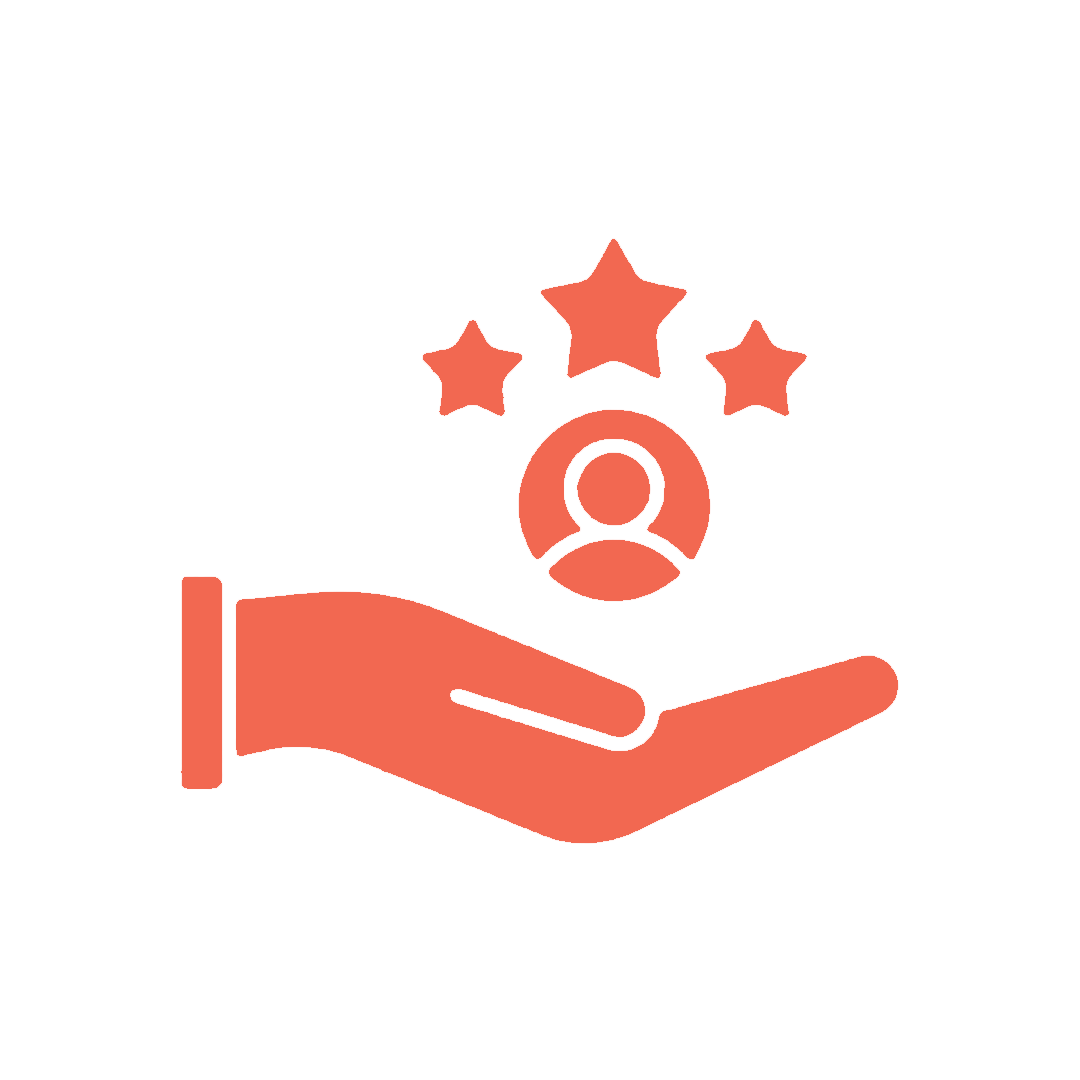
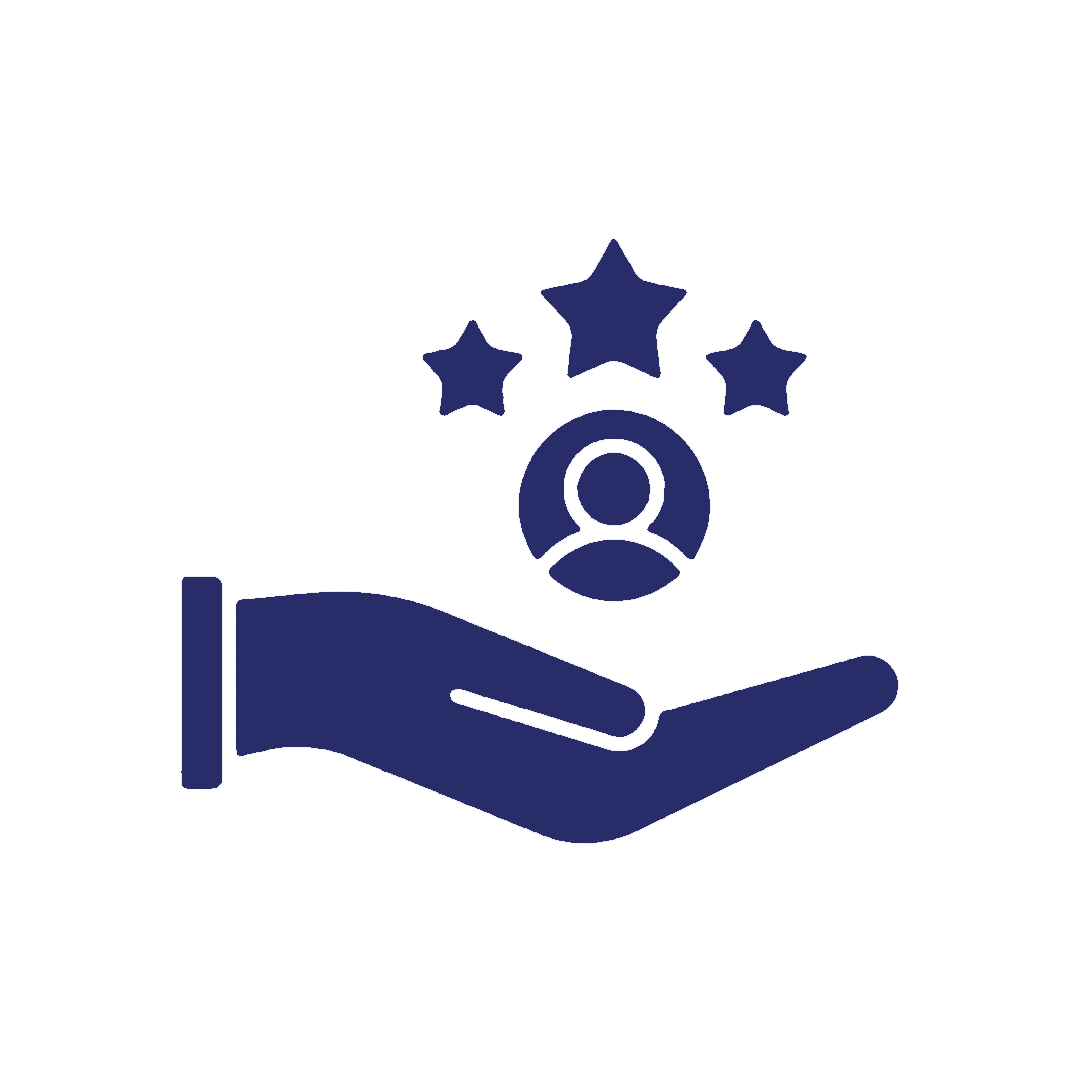
add new animations

diff --git a/index.html b/index.html
@@ -5,7 +5,7 @@
     <meta name="viewport" content="width=device-width, initial-scale=1.0">
     <title>Access-Floor</title>
     <style>
-     *{
+        *{
     margin: 0;
     padding: 0;
     box-sizing: border-box;
@@ -29,13 +29,12 @@
     width: 100%;
     height: 100vh;
     background-color: rgb(64, 67, 66);
-    background-image:linear-gradient(rgba(0, 0, 0, 0.8), rgba(0, 0, 0, 0.6)), url(Access-images/banner\ bg_11zon.jpg);
+    background-image:linear-gradient(rgba(0, 0, 0, 0.8), rgba(0, 0, 0, 0.6)), url(Access-images/1091027319-preview.gif);
     background-repeat: no-repeat;
     background-size: 100vw 100vh;
 }
 
 /* ..............navbar.................. */
-
 
 .navbar-container{
     width: 100%;
@@ -75,7 +74,7 @@
     color: whitesmoke;
 }
 .nav-menu P:hover{
-    color:#f26851;
+    color:rgb(45,42,99);
 }
 
 /* .................banner............... */
@@ -113,8 +112,8 @@
     margin-top: 2%;
     border-radius: 5px;
     color: white;
-    border: 2px solid whitesmoke ;
-    background-color:#f26851;
+    border: none;
+    background-color:rgb(45,42,99);
     font-family:Arial, Helvetica, sans-serif;
 }
 
@@ -159,7 +158,7 @@
      color: white;
      font-family: sans-serif;
      font-size: 16px;
-     background-color:#f26851;
+     background-color:rgb(45,42,99);
  }
 
  .about-imagesection{
@@ -192,6 +191,11 @@
     gap: 3%;
     cursor: pointer;
     transition: transform 0.2s;
+    background-image: linear-gradient(rgba(0, 0, 0, 0.8), rgba(0, 0, 0, 0.6)), url(Access-images/facts.jpg);
+    background-repeat: no-repeat;
+    background-size: 100vw 100vh;
+    background-attachment: fixed;
+
 }
 .detail-title{
     width: 90%;
@@ -200,7 +204,7 @@
     align-items: center;
     font-size: 28px;
     font-weight: 500;
-    color: #f26851;
+    color: rgb(45,42,99);
     font-family: 'Segoe UI', Tahoma, Geneva, Verdana, sans-serif;
     /* background-color: aqua; */
     animation: appear  linear;
@@ -223,9 +227,15 @@
     align-items: center;
     justify-content: center;
     gap: 2%;
-    background-color: rgb(45,42,99);
+    /* background-color: rgb(45,42,99); */
     color: whitesmoke;
     /* border-radius: 50%; */
+    animation: appear  linear;
+    animation-timeline: view();
+    animation-range: entry 5%;
+}
+.detail-card img{
+    width: 80px;
 }
 .detail-card h2{
     font-size: 82px;
@@ -240,6 +250,7 @@
     animation: appear  linear;
     animation-timeline: view();
     animation-range: entry 20%;
+    color: rgb(45,42,99);
 }
 
 /* ....................product................................. */
@@ -273,6 +284,7 @@
     grid-template-columns: repeat(3, 1fr);
     /* background-color: #fff; */
     gap: 2%;
+    align-items: center;
 }
 
 .product-card {
@@ -330,7 +342,7 @@
     flex-direction: column;
     align-items: center;
     /* justify-content: center; */
-    background-color:whitesmoke;
+    background-color:white;
 }
 .why-title{
     width: 100%;
@@ -361,7 +373,7 @@
     justify-content: center;
     flex-direction: column;
     gap: 5%;
-    border: 2px solid #f26851;
+    border: 2px solid rgb(45,42,99);
     background-color: white;
     border-radius: 5px;
 }
@@ -372,6 +384,7 @@
 .whycard h3{
     font-size:24px;
     font-family: 'Segoe UI', Tahoma, Geneva, Verdana, sans-serif;
+    color: rgb(45,42,99);
 }
 /* ................projects............ */
 
@@ -501,9 +514,9 @@
     height: 15%;
     font-size: 18px;
     font-weight: bold;
-    background-color: #f26851;
+    background-color: white;
     border: 2px solid white;
-    color: whitesmoke;
+    color: rgb(45,42,99);
 }
 
 /* .................footer........................... */
@@ -588,10 +601,11 @@
      font-family: sans-serif;
      font-size: 1rem;
  }
-    
+  
 
- /* ...............responsive................... */
-    
+ /* ..........................responsive................................ */
+
+ 
 
 @media (max-width:1025px){
 
@@ -794,7 +808,7 @@
 /* details */
 .detail-container{
     gap: 8%;
-    height: 50vh;
+    height: 100vh;
 }
 .detailcard-container{
     gap:5%;
@@ -955,7 +969,7 @@
     /* details */
 .detail-container{
     gap: 8%;
-    height: 50vh;
+    height: 100vh;
 }
 .detailcard-container{
     gap:5%;
@@ -1018,7 +1032,7 @@
 }
 .banner-container button{
     width: 100px;
-    border: 1px solid whitesmoke;
+    font-size: 13px;
 }
 
 /* about */
@@ -1030,7 +1044,11 @@
     font-size: 30px;
 }
 .about-content p{
-    font-size: ;
+    font-size:10px ;
+}
+.about-content button{
+    width: 100px;
+    height: 30px;
 }
 
 /* product */
@@ -1044,15 +1062,21 @@
 .product-info span{
     font-size: 12px;
 }
+       /* why */
 
-/* form */
+    .why-title{
+        height: 10%;
+        font-size: 22px;
+    }
+    .whycard{
+        width: 280px;
+        height: 300px;
+        gap: 3%;
+    }
+    .whycard h3{
+       font-size: 18px;
+    }
 
-.form-container form h2{
-    font-size: 18px;
-}
-.message button{
-   font-size: 12px;
-}
 
 .estimate-container h2{
     font-size: 16px;
@@ -1066,9 +1090,7 @@
 }
 
 }
-
     </style>
- 
 </head>
 <body>
 <div class="web-container">
@@ -1126,14 +1148,17 @@
         </div>
         <div class="detailcard-container">
             <div class="detail-card">
+              <img src="Access-images/detail3.png" alt="">
               <h2 class="number" data-target="15">0</h2>
                 <p>Awards</p>
              </div>
              <div class="detail-card">
+              <img src="Access-images/detail2.png" alt="">
               <h2 class="number" data-target="100">0</h2>
                 <p>Clients</p>
              </div>
              <div class="detail-card">
+              <img src="Access-images/detail1.png" alt="">
               <h2 class="number" data-target="200">0</h2>
                 <p>Project</p> 
              </div>
@@ -1151,41 +1176,41 @@
         <img src="Access-images/product2.jpg" alt="Bare Finish Panels" class="product-image">
         <div class="product-info">
           <p>AFT-TECH</p>
-          <span>Explore our Collections and find the one most suited for your project.</span>
+          <span>These elevated floors create a cavity beneath the flooring surface.</span>
         </div>
     </div>
     <div class="product-card">
         <img src="Access-images/product1.jpg" alt="Product 2" class="product-image">
         <div class="product-info">
           <p>AFT-Access Floor</p>
-          <span>Explore our Collections and find the one most suited for your project.</span>
+          <span>Steel cement raised floor system is enginered to deliver  perfomance </span>
         </div>
     </div>
     <div class="product-card">
         <img src="Access-images/product5.jpg" alt="Product 3" class="product-image">
         <div class="product-info">
-          <p>Product Name</p>
+          <p>Mero-TSK Germany</p>
           <span>Explore our Collections and find the one most suited for your project.</span>
         </div>
     </div>
     <div class="product-card">
         <img src="Access-images/product 3.jpg" alt="Product 4" class="product-image">
         <div class="product-info">
-            <p>Product Name</p>
+            <p>Belgotex-Acoustic</p>
             <span>Explore our Collections and find the one most suited for your project.</span>
         </div>
     </div>
     <div class="product-card">
         <img src="Access-images/product6.jpg" alt="Product 5" class="product-image">
         <div class="product-info">
-          <p>Product Name</p>
+          <p>SPC-Flooring</p>
           <span>Explore our Collections and find the one most suited for your project.</span>
         </div>
     </div>
     <div class="product-card">
         <img src="Access-images/product 4.jpg" alt="Product 6" class="product-image">
         <div class="product-info">
-          <p>Product Name</p>
+          <p>Office-Carpet</p>
           <span>Explore our Collections and find the one most suited for your project.</span>
         </div>
     </div>
@@ -1276,12 +1301,15 @@
 
   <div class="suppliers-container">
     <h2>Our Suppliers</h2>
+    <marquee behavior="" direction="">
       <div class="suppliers-combany">
-      <img src="Access-images/supplier1.png" alt="">
-      <img src="Access-images/supplier2.png" alt="">
-      <img src="Access-images/supplier3.png" alt="">
-      <img src="Access-images/suppplier4.png" alt=""> 
-    </div>
+        <img src="Access-images/supplier1.png" alt="">
+        <img src="Access-images/supplier2.png" alt="">
+        <img src="Access-images/supplier3.png" alt="">
+        <img src="Access-images/suppplier4.png" alt=""> 
+      </div>
+    </marquee>
+    
   </div>
 
 
@@ -1328,7 +1356,7 @@
 </footer>
 
 </div>
-<script >
+<script>
     document.addEventListener('DOMContentLoaded', () => {
   // Array of background images for each project box
   const backgrounds = [
@@ -1350,10 +1378,6 @@
       }
   });
 });
-
-
-
-
 
 
 const numbers = document.querySelectorAll('.number');
